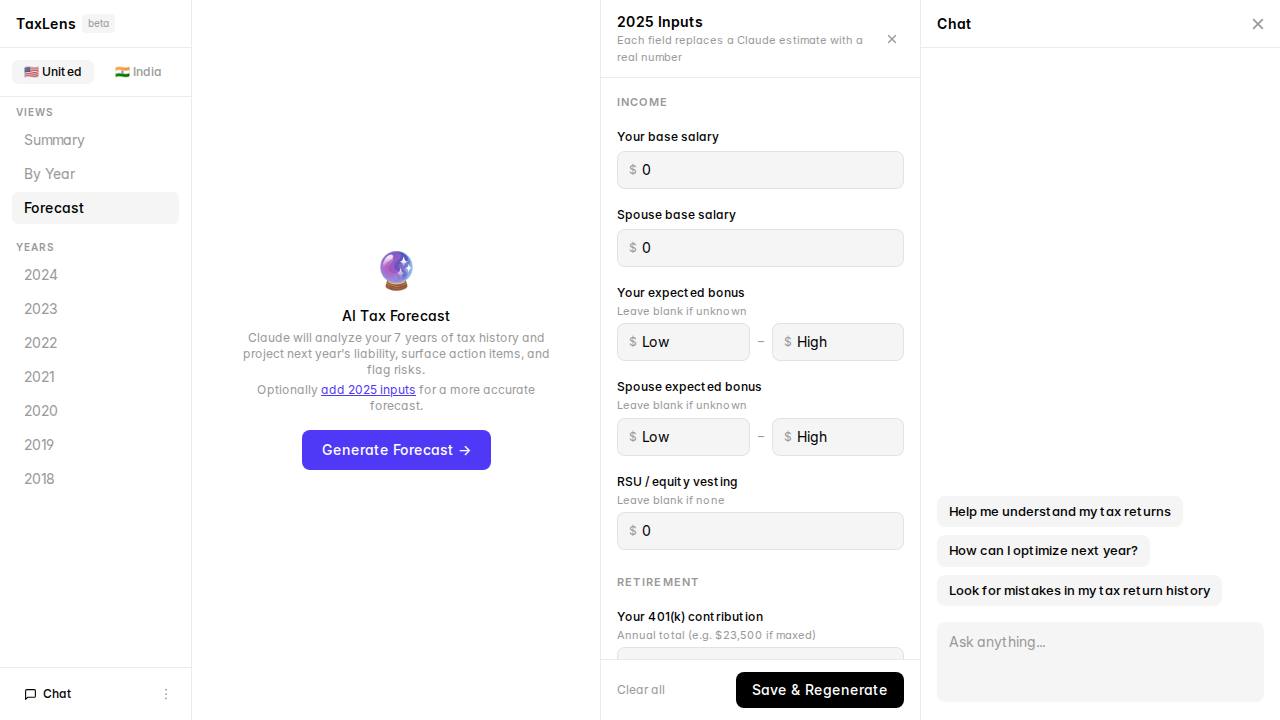
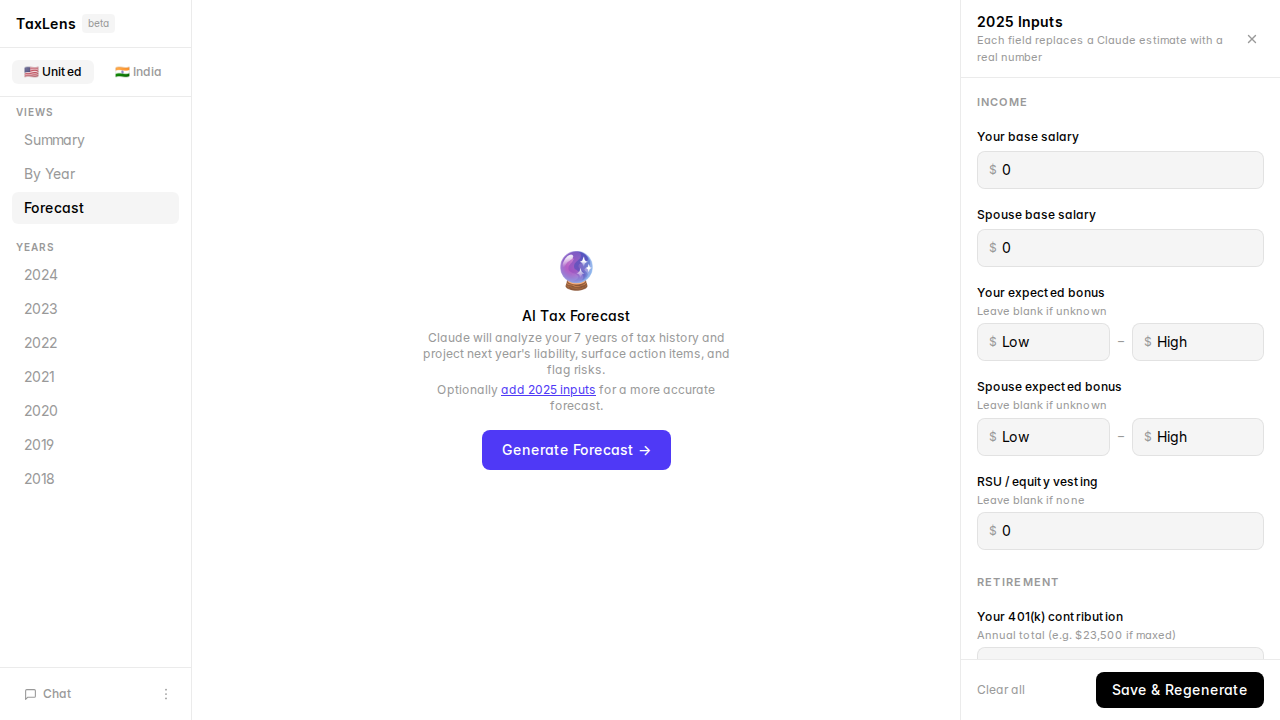
Fix forecast profile screenshot: close chat panel before capture

diff --git a/tests/e2e/screenshots.pw.ts b/tests/e2e/screenshots.pw.ts
@@ -35,32 +35,11 @@ test.describe("Screenshot capture", () => {
   });
 
   test("forecast profile panel open", async ({ page }) => {
+    // Force chat closed via localStorage before the app boots
     await page.goto("/");
+    await page.evaluate(() => localStorage.setItem("tax-chat-open", "false"));
+    await page.reload();
     await page.waitForLoadState("networkidle");
-
-    // Close chat if open
-    const chatClose = page.getByRole("button", { name: /close/i }).filter({ hasText: "" }).first();
-    const isChatCloseVisible = await page
-      .locator("button")
-      .filter({ hasText: /^✕$|^×$|^Close$/ })
-      .first()
-      .isVisible()
-      .catch(() => false);
-    if (isChatCloseVisible) {
-      await page
-        .locator("button")
-        .filter({ hasText: /^✕$|^×$|^Close$/ })
-        .first()
-        .click();
-      await page.waitForTimeout(300);
-    }
-    // Also try clicking the Chat toggle if the chat panel is open
-    const chatPanel = page.locator("text=Ask anything").first();
-    const isChatOpen = await chatPanel.isVisible().catch(() => false);
-    if (isChatOpen) {
-      await page.locator("aside").getByText("Chat").click();
-      await page.waitForTimeout(300);
-    }
 
     await page.getByText("Forecast", { exact: true }).first().click();
     await page.waitForTimeout(800);
